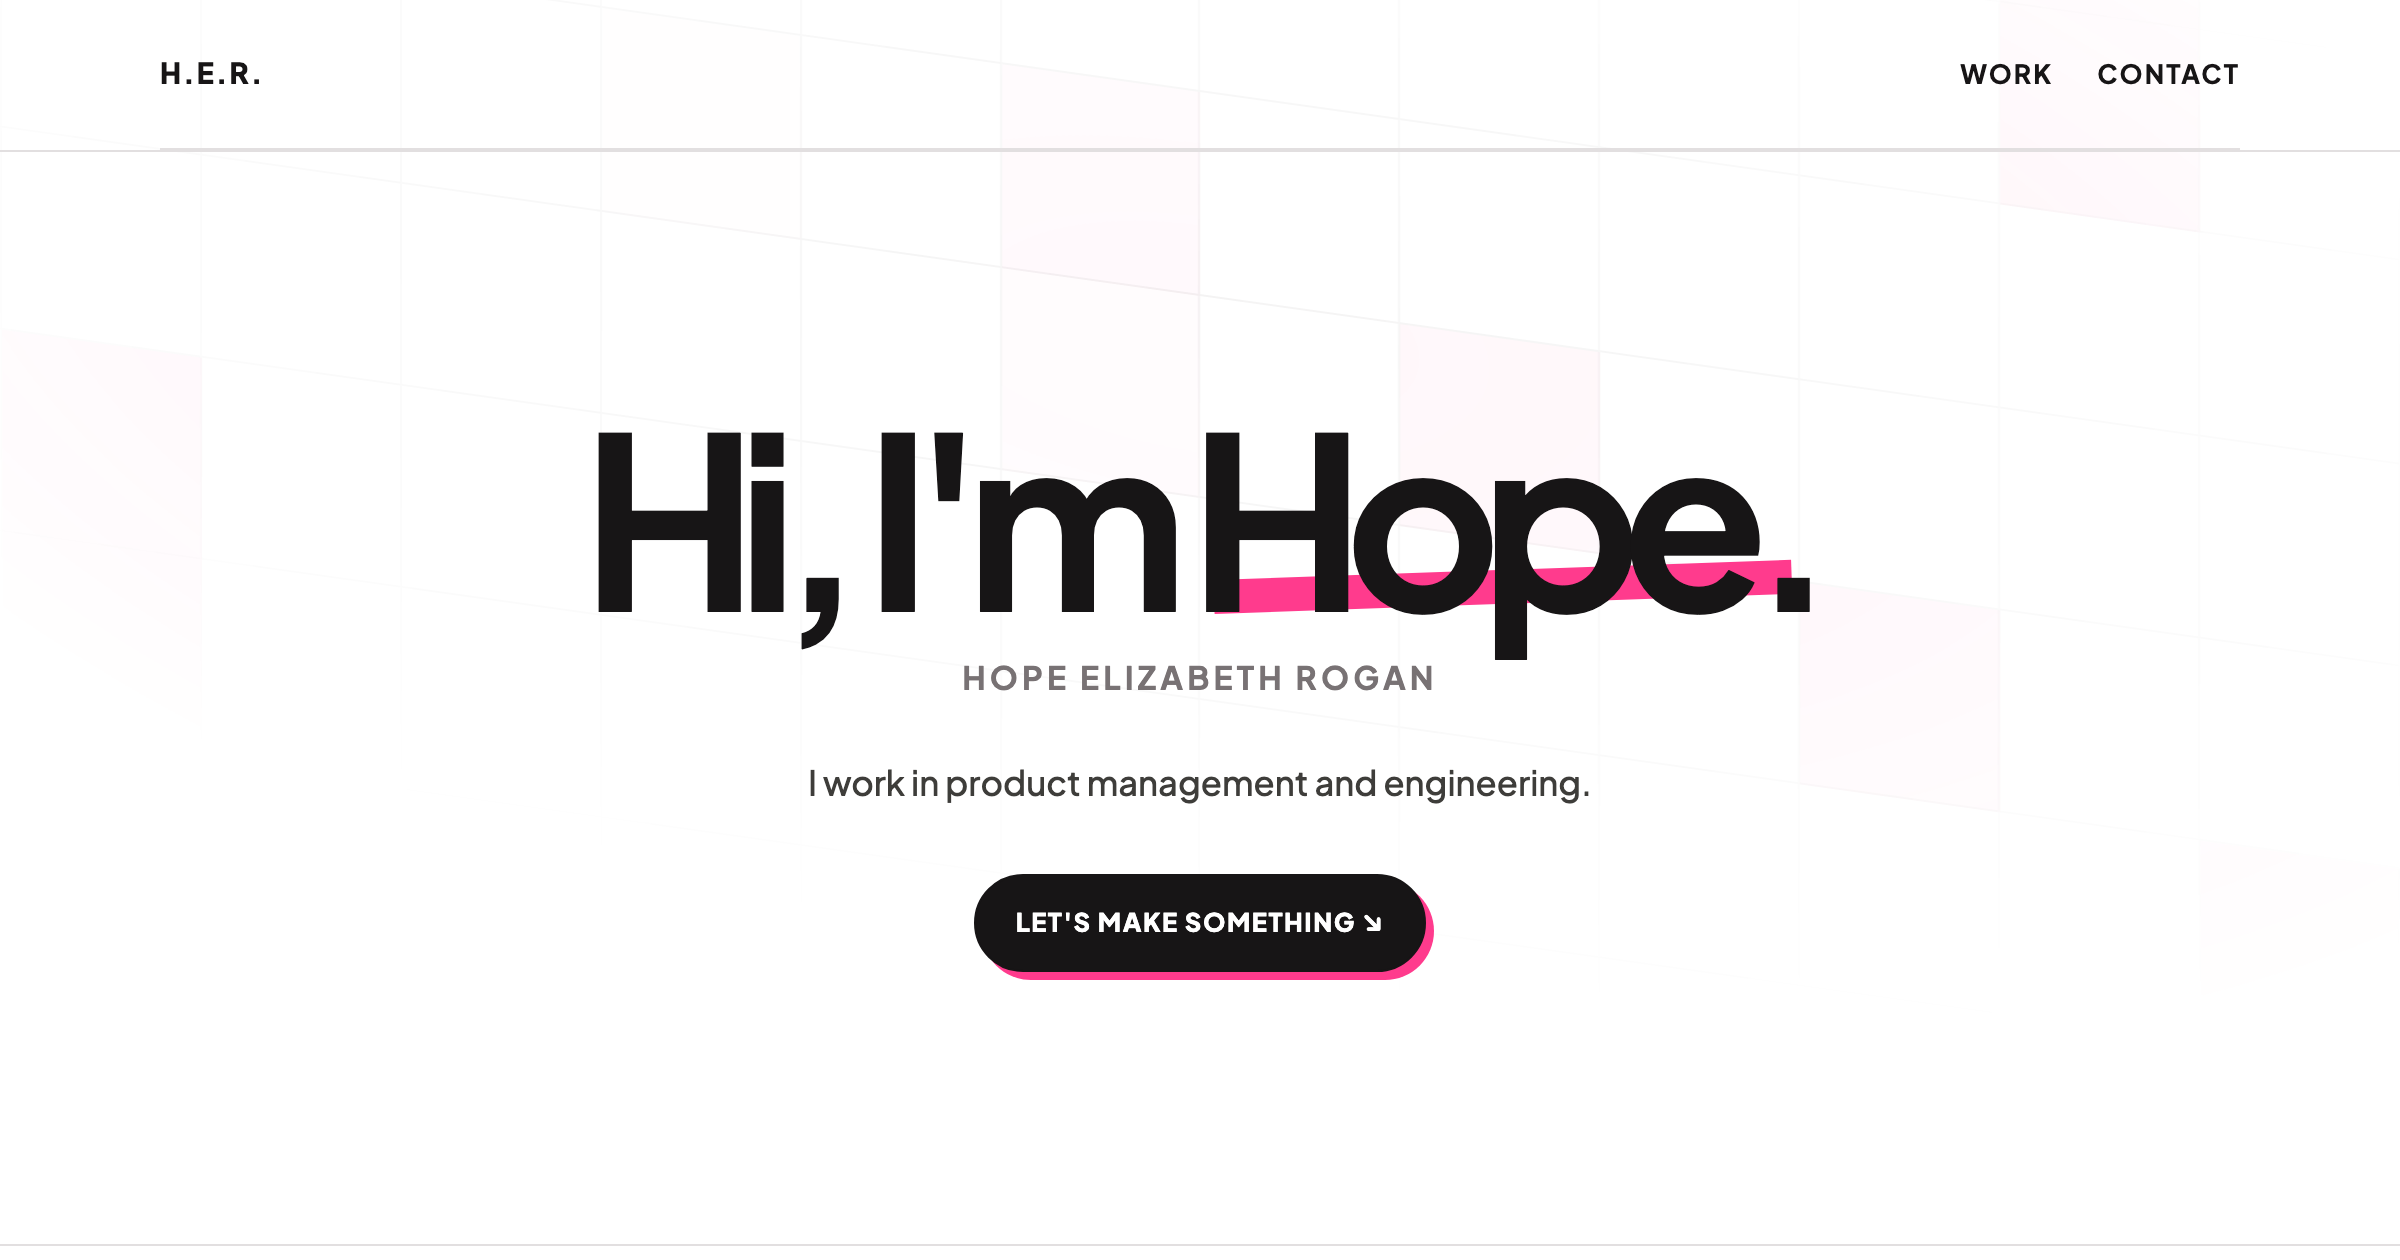
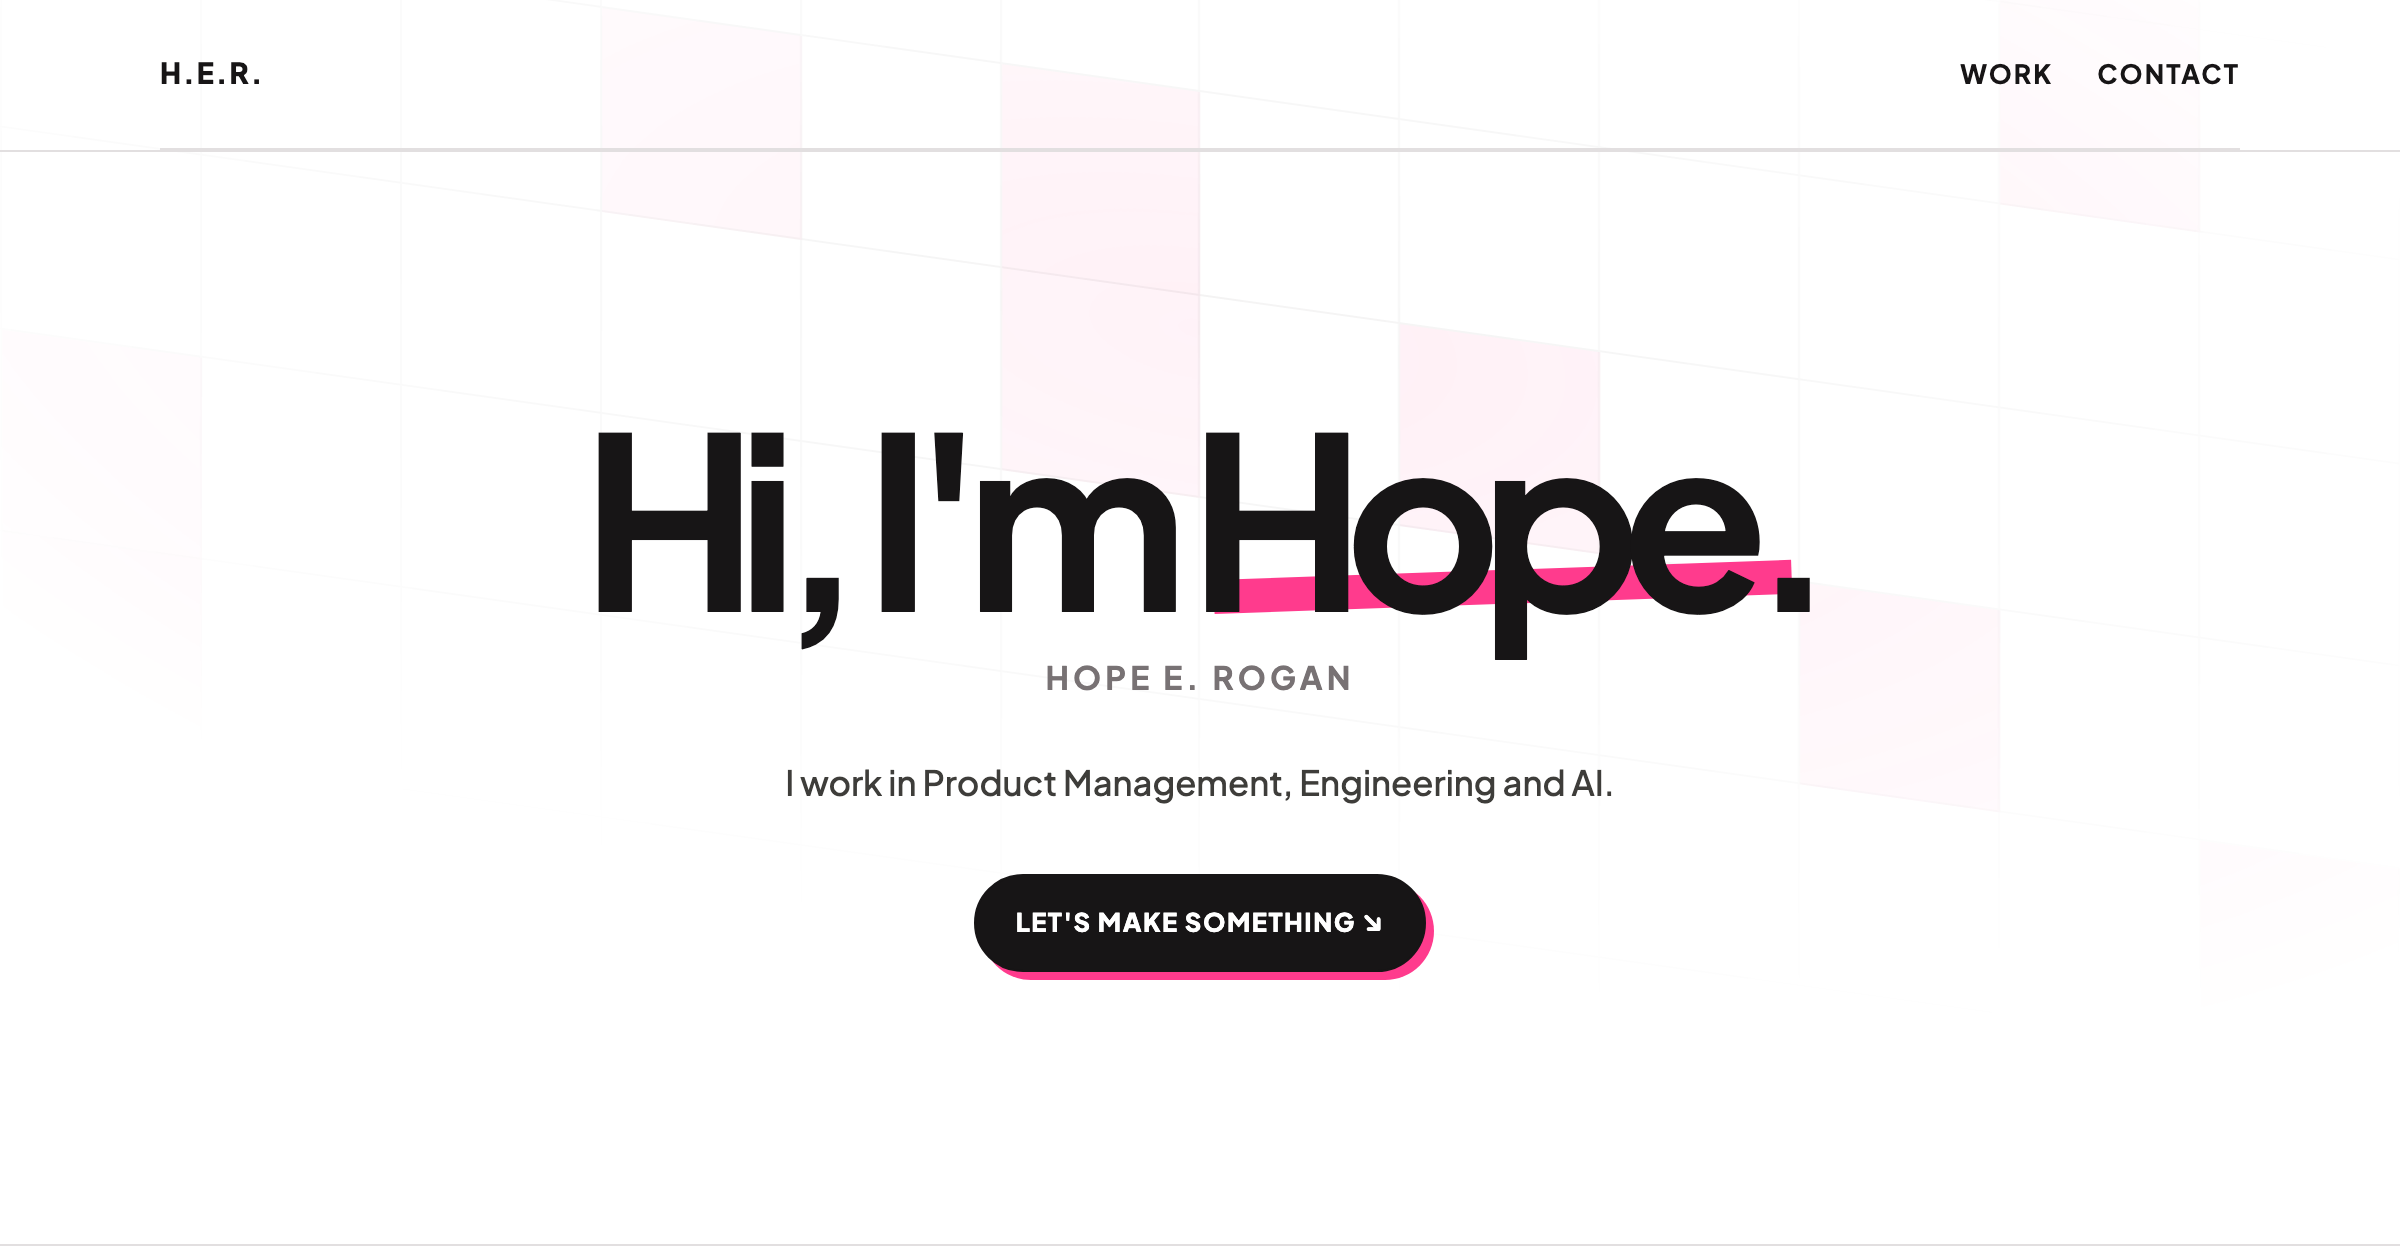
Update tagline copy and regenerate share/hero assets
Tagline now reads "I work in Product Management, Engineering and AI."
with PM and Engineering capitalized. Regenerated the OG/Twitter share
images from the settled final animation frame to match the updated
name and tagline, and stored the hero intro animation as a gif in
public/ for reuse.

Changed region(s): [[0.3125, 0.5881, 0.6875, 0.65], [0.4062, 0.5262, 0.5938, 0.5571]]

diff --git a/src/components/hero.tsx b/src/components/hero.tsx
@@ -22,7 +22,7 @@ export default function Hero() {
             animate={{ opacity: 1, y: 0 }}
             transition={{ delay: TAGLINE_DELAY, duration: FADE_DURATION }}
           >
-            I work in product management and engineering.
+            I work in Product Management, Engineering and AI.
           </motion.p>
           <motion.div
             className="inline-block"
